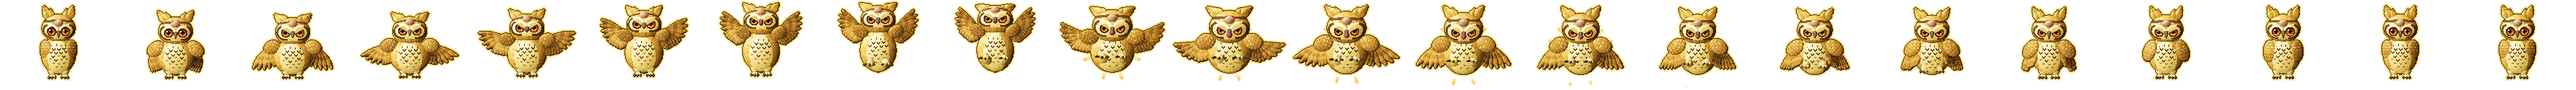
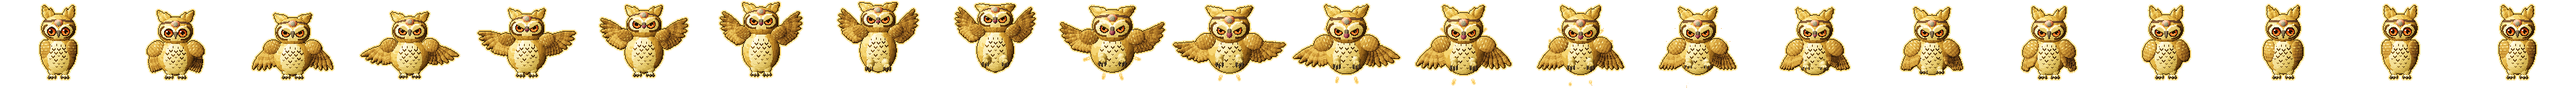
wip(pets): сова — когти граблями в хватке, конец трюка раньше, перепечено
Claude-Session: https://claude.ai/code/session_018QnrYRe8jfmREkVPy3Dca8

diff --git a/src/lib/pets-pixel/owl.ts b/src/lib/pets-pixel/owl.ts
@@ -36,7 +36,6 @@ import {
   LIGHT,
   lerp,
   lerp3,
-  mixc,
   mul,
   newFrame,
   norm,
@@ -728,11 +727,14 @@ function workPose(t: number): Pose {
     [1.58, -0.06],
     [1.68, 0],
   ]);
-  o.held = t >= T_GRAB ? kf(t, [
-    [T_GRAB, 1],
-    [1.54, 1],
-    [1.64, 0, 'l'],
-  ]) : 0;
+  o.held =
+    t >= T_GRAB
+      ? kf(t, [
+          [T_GRAB, 1],
+          [1.54, 1],
+          [1.64, 0, 'l'],
+        ])
+      : 0;
   if (t >= T_GRAB) o.gem = 0;
   o.beak = 0.35 * bump(t, 1.44, 1.6);
   return o;
@@ -1196,21 +1198,11 @@ function lock(
 const dirFront = (th: number, side: number, fwd = 0): V3 =>
   norm([side * Math.sin(th), fwd, -Math.cos(th)]);
 
-// Перо крыла: маховые в широких полосах, кроющие с круглым светлым пятном.
+// Перо крыла: маховые в широких полосах (кроющие с пятнами — на лопасти, `wing`).
 const barU = (u: number, qy: number): number =>
   (qy < -0.45 ? -0.14 : qy > 0.55 && u > 0.15 ? 0.08 : 0) +
   (Math.floor(u * (HI ? 6 : 3.5) + 0.3) & 1 ? -0.1 : 0.03) +
   (u > 0.94 ? -0.05 : 0);
-const covertPick = (u: number, qy: number): number => {
-  PICK_T = u > 0.84 || Math.abs(qy) > 0.8 ? -0.12 : 0.02;
-  if (u > 0.36 && u < 0.7 && Math.abs(qy) < (HI ? 0.34 : 0.42)) {
-    PICK_T = -0.16;
-    return P_CREAM;
-  }
-  return P_WING;
-};
-
-const COVERT_W = [1.6, 2.3, 2.6, 2.5, 1.8];
 const SEC_W = [1.5, 2.1, 2.3, 2.3, 2.2, 1.7, 0.9];
 const PRIM_W = [1.2, 1.8, 2.0, 2.05, 2.0, 1.8, 1.3, 0.6];
 const TAIL_W = [1.0, 1.5, 1.8, 1.9, 1.8, 1.2];
@@ -1289,7 +1281,10 @@ function wing(out: PartF[], c: Ctx, side: -1 | 1): void {
         const col = Math.floor(w);
         const fw = w - col - 0.5;
         if (fv > 0.82 - fw * fw * 1.2) PICK_T -= 0.1;
-        else if (fw * fw + (fv - 0.45) ** 2 < (HI ? 0.06 : 0.09) && hash(col, row, side + 7) < 0.85) {
+        else if (
+          fw * fw + (fv - 0.45) ** 2 < (HI ? 0.06 : 0.09) &&
+          hash(col, row, side + 7) < 0.85
+        ) {
           PICK_T = -0.14;
           return P_CREAM;
         }
@@ -1411,10 +1406,15 @@ function legs(out: PartF[], c: Ctx): void {
       bias: -0.06,
       tex: HI ? (qx, qy) => (Math.floor((qx + 1) * 4 + qy * 1.4) & 1 ? -0.05 : 0.02) : undefined,
     });
-    // Пальцы в пуху: три вперёд; когти — тёмный рог, крючком вниз (растопырены в ударе).
+    // Пальцы в пуху: три вперёд; когти — тёмный рог, крючком вниз. В хватке
+    // (удар, кристалл) пальцы граблями вниз-в-стороны, когти загнуты внутрь:
+    // вытянутые к зрителю, они сжимались в серые чёрточки.
     for (const a0 of [-0.55, 0.05, 0.62]) {
-      const a = a0 * (1 + 0.5 * g) * side;
-      const dir = norm([Math.sin(a), Math.cos(a), -0.1 + 0.5 * g]);
+      const a = a0 * side;
+      const b = a0 * 1.2 * side;
+      const dir = norm(
+        lerp3([Math.sin(a), Math.cos(a), -0.1], [Math.sin(b) * 0.9, 0.45, -Math.cos(b)], g),
+      );
       out.push({
         c: add(foot, mul(dir, 1.3 * k)),
         ax: axes(dir, [0, 0, 1]),
@@ -1423,7 +1423,7 @@ function legs(out: PartF[], c: Ctx): void {
         id,
         bias: -0.02 - 0.16 * g,
       });
-      const cd = norm(add(dir, [0, 0, -0.9 + 0.6 * g]));
+      const cd = norm(add(dir, [-Math.sin(b) * 0.8 * g, 0.5 * g, -0.9 + 0.3 * g]));
       out.push({
         c: add(add(foot, mul(dir, 2.7 * k)), mul(cd, (0.5 + 0.4 * g) * k)),
         ax: axes(cd, [0, 1, 0]),
@@ -1609,10 +1609,11 @@ function tufts(out: PartF[], c: Ctx): void {
   for (const side of [-1, 1]) {
     const base = h.at([side * 0.6 * HRX, -0.8, 0.74 * HRZ]);
     const d = norm(
-      add(
-        h.dir(norm([side * (0.4 - 0.12 * pe + 0.7 * ne) + sw, -0.2 - 0.8 * ne, 1 - 0.55 * ne])),
-        [0, 0, dz],
-      ),
+      add(h.dir(norm([side * (0.4 - 0.12 * pe + 0.7 * ne) + sw, -0.2 - 0.8 * ne, 1 - 0.55 * ne])), [
+        0,
+        0,
+        dz,
+      ]),
     );
     const n = h.dir([0, 1, 0]);
     lock(out, base, d, n, 7.4 * k * (1 + 0.12 * pe), 2.4 * k, 1.4 * k, P_FUR, -0.06, tex);
@@ -1746,7 +1747,11 @@ function eyes(p: Px, f: Frame, c: Ctx): void {
         }
         const gx = -0.42 * R;
         const gy = -0.42 * R;
-        if (HI ? Math.abs(px - gx) < 1.1 && Math.abs(py - gy) < 1.1 : px > gx - 0.8 && px < gx + 0.7 && py > gy - 0.8 && py < gy + 0.7)
+        if (
+          HI
+            ? Math.abs(px - gx) < 1.1 && Math.abs(py - gy) < 1.1
+            : px > gx - 0.8 && px < gx + 0.7 && py > gy - 0.8 && py < gy + 0.7
+        )
           p.set(X, Y, WHITE);
         if (HI && Math.abs(px - 0.36 * R) < 0.6 && Math.abs(py - 0.3 * R) < 0.6) p.set(X, Y, ir[5]);
       }
@@ -1793,8 +1798,16 @@ const CHEV_L: [number, number, number][] = [
   [-0.12, -0.46, 1],
   [0.2, -0.45, 1],
 ];
-const V_S = [['x.x', '.x.'], ['x.x', '.x.'], ['x', 'x']];
-const V_L = [['x...x', 'xx.xx', '.xxx.', '..x..'], ['x.x', '.x.'], ['x', 'x', 'x']];
+const V_S = [
+  ['x.x', '.x.'],
+  ['x.x', '.x.'],
+  ['x', 'x'],
+];
+const V_L = [
+  ['x...x', 'xx.xx', '.xxx.', '..x..'],
+  ['x.x', '.x.'],
+  ['x', 'x', 'x'],
+];
 function chevrons(p: Px, f: Frame, c: Ctx): void {
   const { S } = c;
   const [e1, e2, e3] = BODY_AX;
@@ -1894,8 +1907,7 @@ function gemAt(p: Px, cx: number, cy: number, vis: number): void {
         if (HI && Math.abs(x + 0.9 * s) < 0.5 && y > -2.8 * s && y < -0.8 * s) tone = 7;
         p.set(X0 + dx, Y0 + dy, GEM[Math.min(7, tone)]);
       } else {
-        const near =
-          inside(x - 1, y) || inside(x + 1, y) || inside(x, y - 1) || inside(x, y + 1);
+        const near = inside(x - 1, y) || inside(x + 1, y) || inside(x, y - 1) || inside(x, y + 1);
         if (near) p.set(X0 + dx, Y0 + dy, GEM[0]);
       }
     }
@@ -1908,7 +1920,14 @@ function gemFx(p: Px, c: Ctx): void {
     gemAt(p, x, y, o.gem);
     if (o.glint > 0.3) {
       const [gx, gy] = scr([GEM_X + 0.6, GEM_Y, 5.6]);
-      star(p, Math.round(gx), Math.round(gy), HI ? Math.round(1 + 3 * o.glint) : o.glint > 0.6 ? 2 : 1, WHITE, GEM[6]);
+      star(
+        p,
+        Math.round(gx),
+        Math.round(gy),
+        HI ? Math.round(1 + 3 * o.glint) : o.glint > 0.6 ? 2 : 1,
+        WHITE,
+        GEM[6],
+      );
     }
   }
   if (o.held > 0.02) {
@@ -1917,7 +1936,14 @@ function gemFx(p: Px, c: Ctx): void {
     gemAt(p, x, y, o.held);
     if (o.glint > 0.3) {
       const [gx, gy] = scr(add(q, [0.8, 0, 5.4 * S.k]));
-      star(p, Math.round(gx), Math.round(gy), HI ? Math.round(1 + 3 * o.glint) : o.glint > 0.6 ? 2 : 1, WHITE, GEM[6]);
+      star(
+        p,
+        Math.round(gx),
+        Math.round(gy),
+        HI ? Math.round(1 + 3 * o.glint) : o.glint > 0.6 ? 2 : 1,
+        WHITE,
+        GEM[6],
+      );
     }
   }
 }

diff --git a/src/lib/pet-pixel-sprites.ts b/src/lib/pet-pixel-sprites.ts
@@ -70,12 +70,12 @@ export const PET_PX: Record<string, PetPx> = {
   },
   owl: {
     box: 48,
-    rev: '4198c8e144',
+    rev: '57ad281751',
     anims: {
       idle: { n: 72, fps: 24, x: 8, y: -3, w: 32, h: 54 },
       walk: { n: 24, fps: 24, x: 3, y: -5, w: 42, h: 56 },
       happy: { n: 26, fps: 24, x: -5, y: -11, w: 58, h: 62 },
-      work: { n: 48, fps: 24, x: -1, y: -8, w: 54, h: 59 },
+      work: { n: 48, fps: 24, x: -1, y: -8, w: 54, h: 62 },
       attack: { n: 22, fps: 24, x: -13, y: -3, w: 74, h: 59 },
       sleep: { n: 72, fps: 24, x: 8, y: 3, w: 34, h: 48 },
     },
@@ -85,7 +85,7 @@ export const PET_PX: Record<string, PetPx> = {
         idle: { n: 72, fps: 24, x: 26, y: 1, w: 60, h: 113 },
         walk: { n: 24, fps: 24, x: 14, y: -3, w: 84, h: 117 },
         happy: { n: 26, fps: 24, x: -7, y: -17, w: 126, h: 131 },
-        work: { n: 48, fps: 24, x: 2, y: -11, w: 116, h: 125 },
+        work: { n: 48, fps: 24, x: 2, y: -11, w: 116, h: 132 },
         attack: { n: 22, fps: 24, x: -25, y: 1, w: 162, h: 125 },
         sleep: { n: 72, fps: 24, x: 24, y: 13, w: 65, h: 101 },
       },

diff --git a/.claude/rules/pets.md b/.claude/rules/pets.md
@@ -255,6 +255,29 @@ Owner: «добавь возможность выбирать скин у пит
   copper bands darker and redder. Hatch plays `happy`. Weight 818 KB v0+v1 (small 72 / 81, large
   319 / 344, thumbs 1 KB; ink was 1.69 MB) — heavier than the others because of the strands. Released in v2.117.
   Tests «пиксельный паук» in `pets-pixel.test.ts`.
+- **Owl** (`pets-pixel/owl.ts`, `owlFrame(a, i, res, v)`, `variants: [1]`): «Сова-фонарщица», a
+  round eagle-owl facing us (fox's `drawPartsF` + `pick`), head straight on the body. Head = ONE
+  part with `headPick`: pale two-ring disc, dark rim only on the outer/lower side (a full rim
+  merged with the strap), pale brow V, leather strap band; tufts = two `lock`s (main + shorter
+  inner) on springs from turn/tilt/head lag. Eyes = procedural overlay over `HEAD_ID` pixels only
+  (orange iris, pupil, glint, per-eye lid; «^» happy, «‿» sleep, angry, wide), squashed by
+  facing; head turn capped at ±0.48 — wider, the far eye was cut in half by the head edge. Brass
+  lamp on the strap: glass warm grey when off (bluish read as a gem), lit + glow when on; gold uses
+  a COPPER housing (brass vanished on gold plumage). Breast = cream oval on the body (`bodyPick`,
+  jagged cell edge) + sparse chevron STAMPS in body-local coords (8 small, 23 large, darker at the
+  top), only over cream body pixels. Wing = a folded LOBE along the side (cream spot rows on the
+  top half, barred flight feathers below, dark split lines); secondaries/primaries only when open
+  (arm-shaped wings without the lobe hid behind the body). Legs: cream feathered columns, 3 toes,
+  dark talons; under `grip` toes rake down-and-out and claws hook inward (thrust at the viewer
+  they foreshortened into grey dashes). Work (lantern): lamp clicks on 0.26 s → beam cone + floor
+  spot over EMPTY pixels sweeps left→right 0.3–1.0 s, head leads it → crystal glints in the beam
+  ~0.9 s (wide eyes, tufts up) → hop to it → right foot up holding it before the breast, happy
+  eyes, 1.36–1.6 s → lamp off, hop back 1.66–1.84 s; props AND `beamX` reset to REST (seam
+  test; ending the hop at 1.94 left the last frame mid-landing). Attack: wings up in a V → swoop
+  at the viewer f9 (scale 1.18, head up, beak open with red gape, talons forward) → rays round the
+  body over empty pixels → settle. Idle: breath, head swivel + tilt with the body still, blink
+  left then right, tuft springs, a shake. Sleep: fluffed, head sunk, tufts back, lamp off, zzz.
+  Hatch plays `happy`. Weight OWL_WEIGHT. Tests «пиксельная сова» in `pets-pixel.test.ts`.
 - **Грабли**: `rig.ts` импортирует `../dungeon-tiles` ДО `../dungeon-art`
   (иначе круг модулей под vite-node: `hex is not a function`); у `pitchX`
   положительный угол наклоняет «вперёд-вниз» — клюв смотрел в небо;
